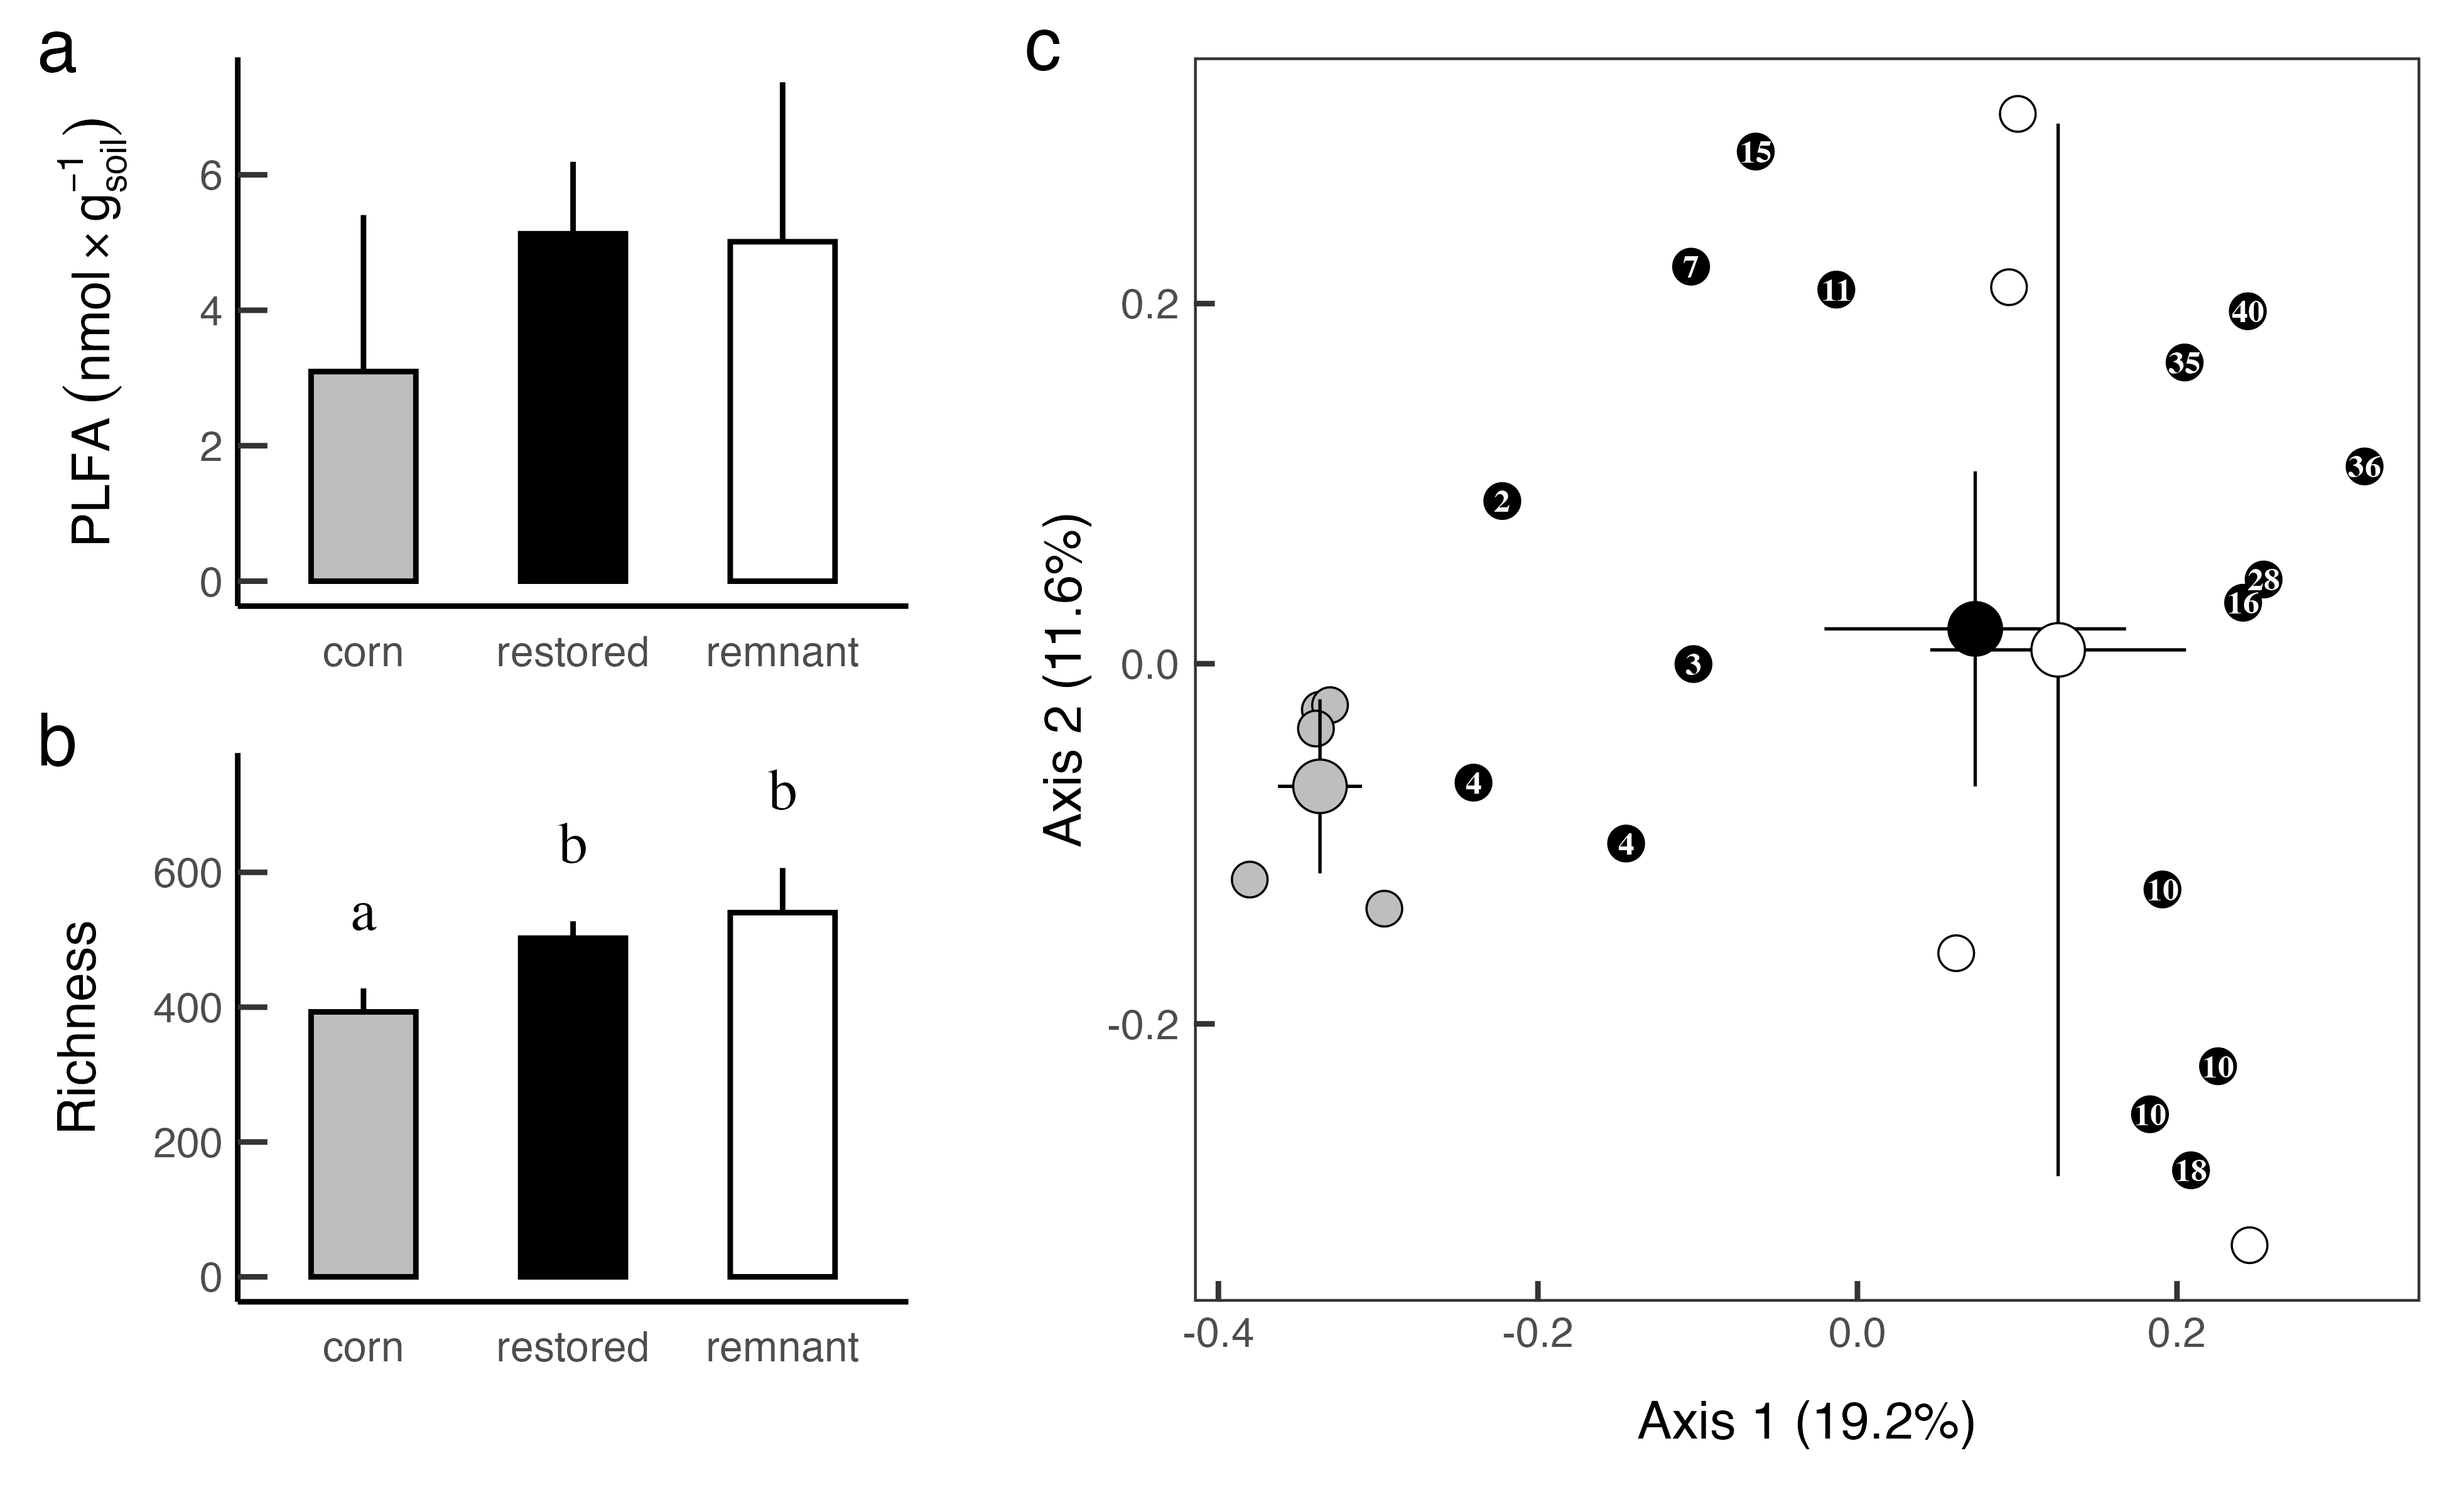
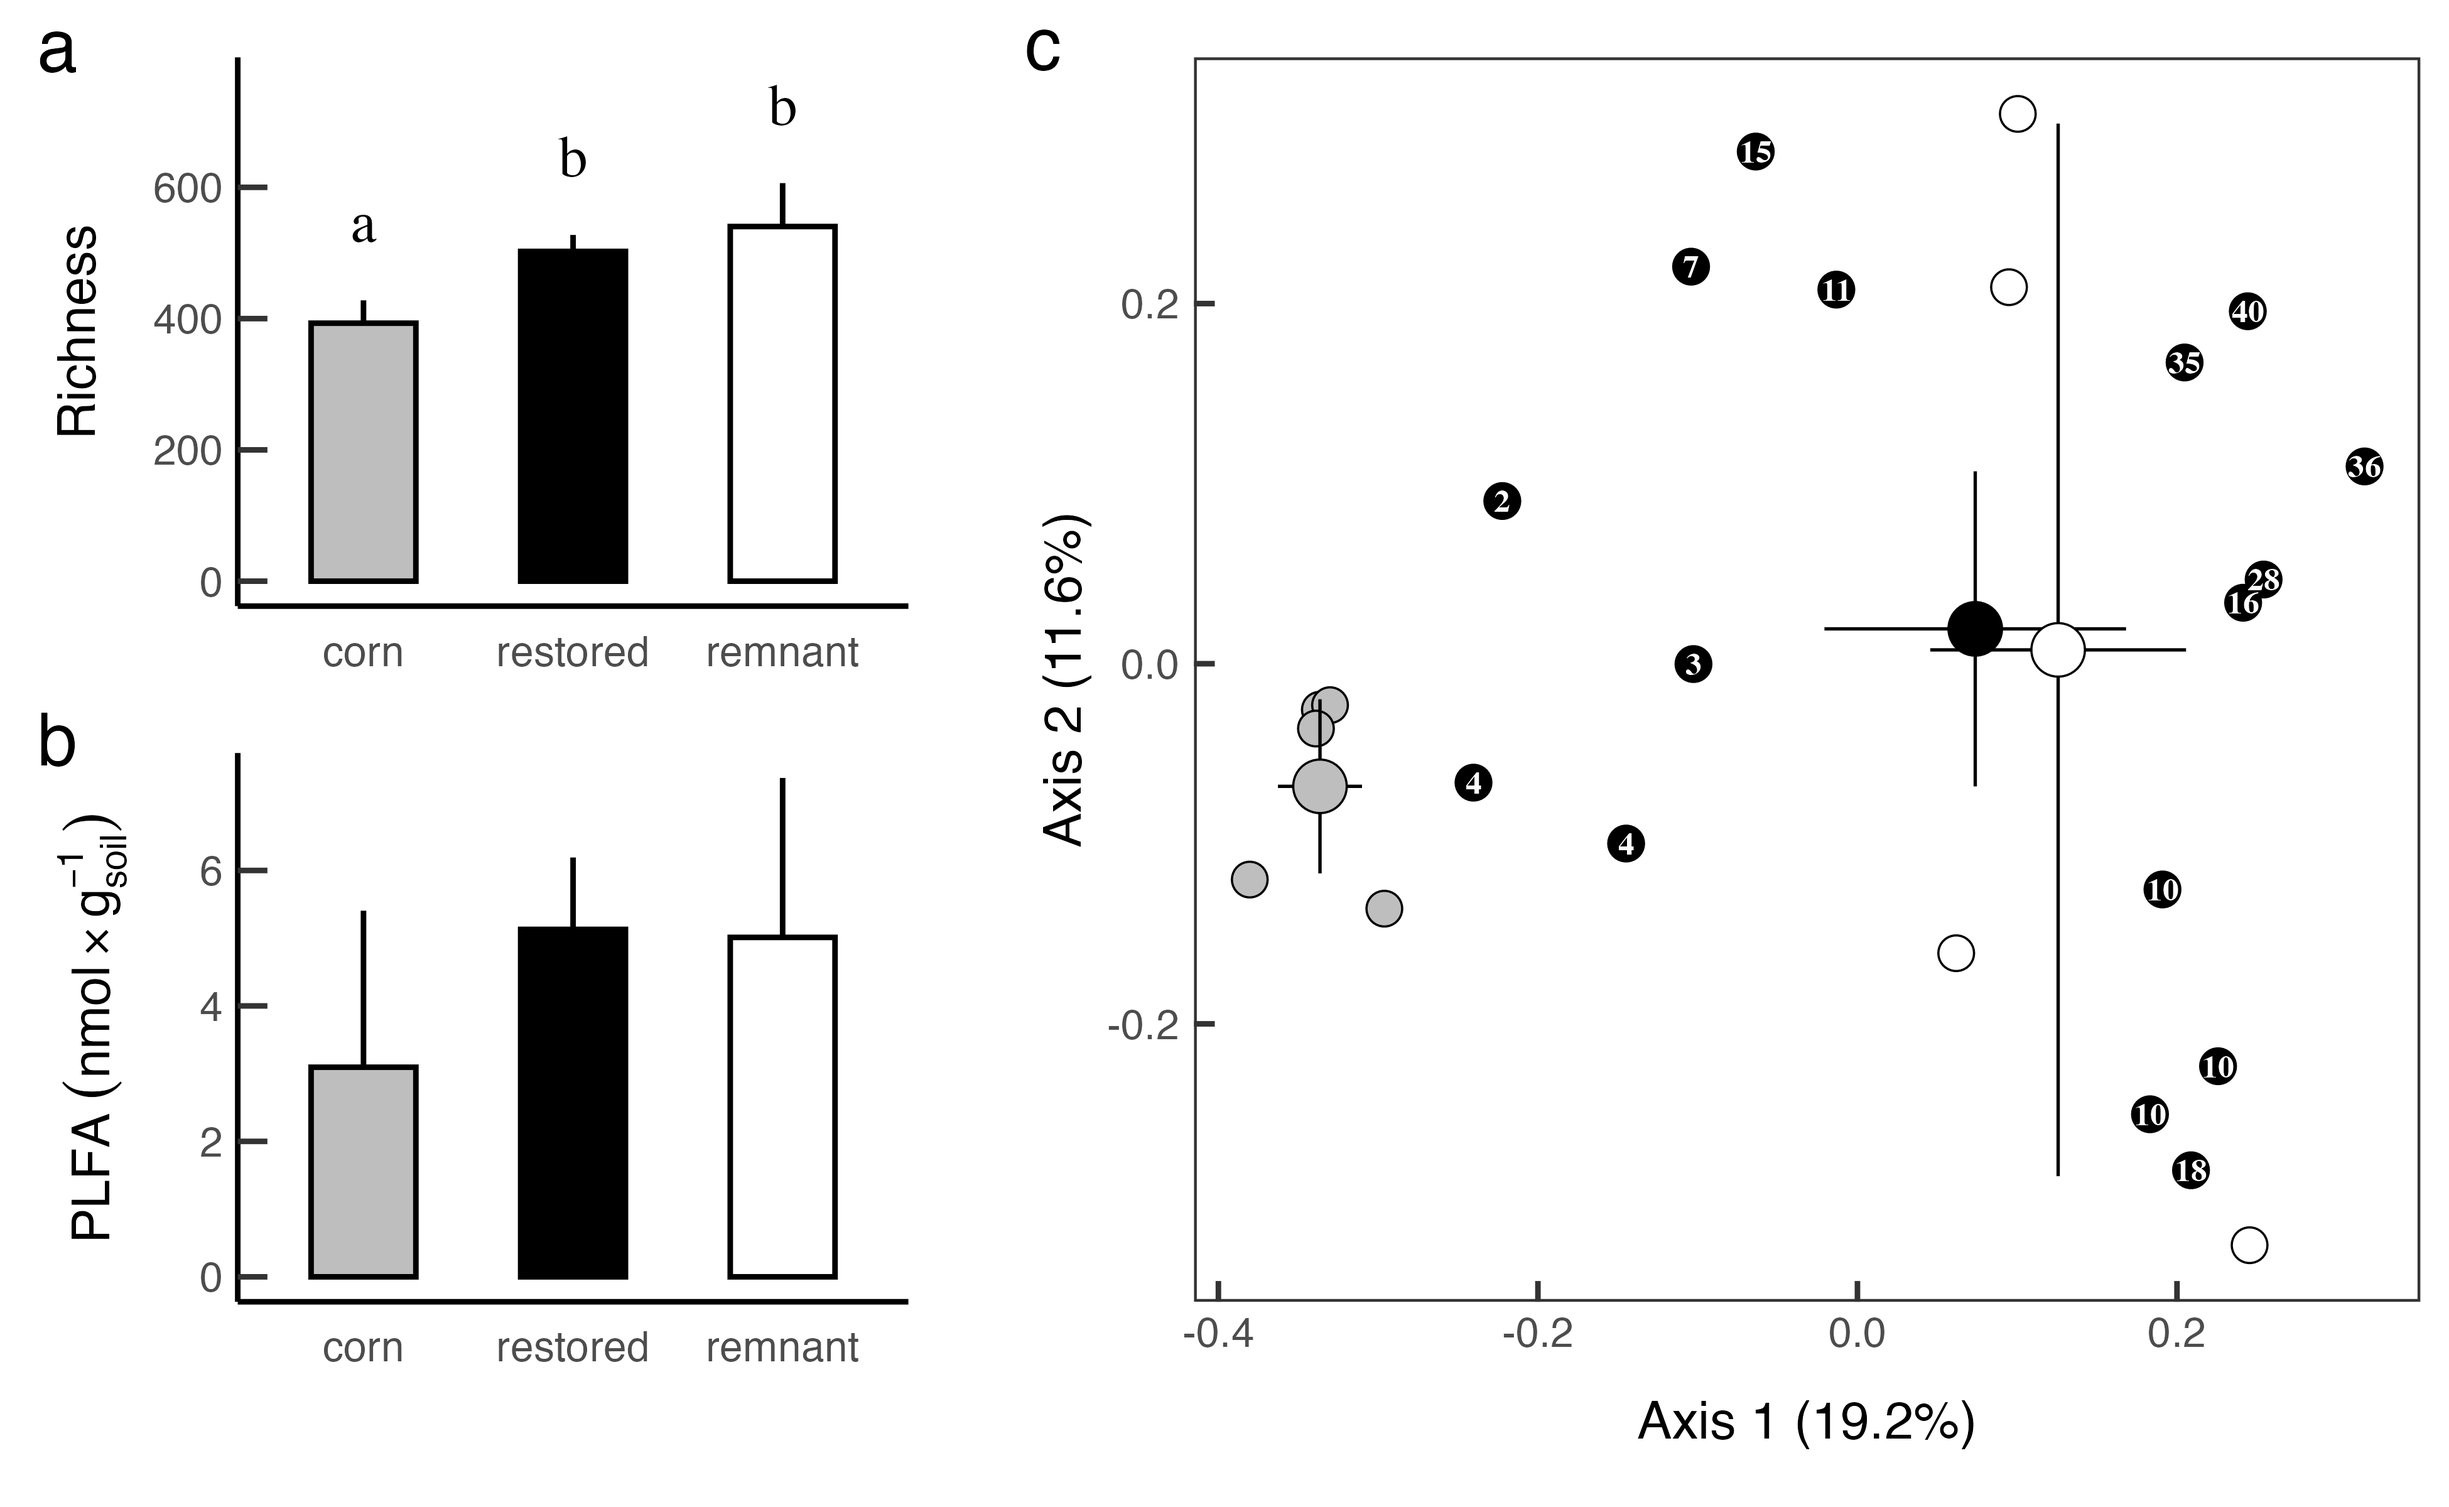
UPDATED scripts and data

diff --git a/soilfun.md b/soilfun.md
@@ -315,7 +315,7 @@ mva <- function(d, env=sites, corr="none", nperm=1999) {
             contrast_matrix ~ env$dist_axis_1[group_subset] + group_var[group_subset],
             permutations = nperm,
             by = "terms")
-        # Prepare constrasts table
+        # Prepare contrasts table
         contrasts$R2[i] <- round(fit[grep("group_var", rownames(fit)), "R2"], digits = 3)
         contrasts$F_value[i] <- round(fit[grep("group_var", rownames(fit)), "F"], digits = 3)
         contrasts$df1[i] <- fit[grep("group_var", rownames(fit)), "Df"]
@@ -332,7 +332,7 @@ mva <- function(d, env=sites, corr="none", nperm=1999) {
         ordination_scores  = p_sco,
         dispersion_test    = mvdisper,
         permanova          = gl_permtest,
-        pairwise_contrasts = kable(contrasts, format = "pandoc", caption = "Post-hoc PERMANOVA results"),
+        pairwise_contrasts = contrasts,
         vector_fit_result  = p_fit,
         vector_fit_scores  = p_fit_sco
     )
@@ -411,12 +411,14 @@ Tests are performed on the log scale
 ``` r
 plfa_fig <- 
     ggplot(data.frame(summary(plfa_em)), aes(x = field_type, y = response)) +
-    geom_col(color = "black", width = 0.5) +
+    geom_col(aes(fill = field_type), color = "black", width = 0.5) +
     geom_errorbar(aes(ymin = response, ymax = upper.CL), width = 0) +
-    # geom_text(aes(y = ci_u, label = c("a", "b", "b")), vjust = -2, family = "serif", size = 4) +
     labs(x = NULL, y = expression(PLFA~(nmol%*%g[soil]^-1))) +
-    # lims(y = c(0, 700)) +
-    theme_cor
+    scale_fill_manual(values = c("gray", "black", "white")) +
+    theme_cor +
+    theme(legend.position = "none",
+          plot.tag = element_text(size = 14, face = 1),
+          plot.tag.position = c(0, 1.02))
 ```
 
 ## Diversity Indices
@@ -552,12 +554,16 @@ its_rich <-
 ``` r
 its_rich_fig <- 
     ggplot(its_rich, aes(x = field_type, y = avg_rich)) +
-    geom_col(color = "black", width = 0.5) +
+    geom_col(aes(fill = field_type), color = "black", width = 0.5) +
     geom_errorbar(aes(ymin = avg_rich, ymax = ci_u), width = 0) +
-    geom_text(aes(y = ci_u, label = c("a", "b", "b")), vjust = -2, family = "serif", size = 4) +
+    geom_text(aes(y = ci_u, label = c("a", "b", "b")), vjust = -1.5, family = "serif", size = 4) +
     labs(x = NULL, y = "Richness") +
-    lims(y = c(0, 700)) +
-    theme_cor
+    lims(y = c(0, 760)) +
+    scale_fill_manual(values = c("gray", "black", "white")) +
+    theme_cor +
+    theme(legend.position = "none",
+          plot.tag = element_text(size = 14, face = 1),
+          plot.tag.position = c(0, 1.02))
 ```
 
 ### Shannon’s diversity
@@ -703,7 +709,7 @@ mva_its$dispersion_test
     ## 
     ## Response: Distances
     ##           Df   Sum Sq   Mean Sq      F N.Perm Pr(>F)  
-    ## Groups     2 0.018698 0.0093489 3.2104   1999 0.0605 .
+    ## Groups     2 0.018698 0.0093489 3.2104   1999  0.059 .
     ## Residuals 22 0.064065 0.0029121                       
     ## ---
     ## Signif. codes:  0 '***' 0.001 '**' 0.01 '*' 0.05 '.' 0.1 ' ' 1
@@ -711,8 +717,8 @@ mva_its$dispersion_test
     ## Pairwise comparisons:
     ## (Observed p-value below diagonal, permuted p-value above diagonal)
     ##              corn restored remnant
-    ## corn              0.065500  0.1245
-    ## restored 0.068726           0.1435
+    ## corn              0.061500  0.1095
+    ## restored 0.068726           0.1230
     ## remnant  0.126039 0.135570
 
 ``` r
@@ -726,7 +732,7 @@ mva_its$permanova
     ## 
     ## adonis2(formula = d ~ dist_axis_1 + field_type, data = env, permutations = nperm, by = "terms")
     ##             Df SumOfSqs      R2      F Pr(>F)    
-    ## dist_axis_1  1   0.4225 0.06253 1.7391 0.0250 *  
+    ## dist_axis_1  1   0.4225 0.06253 1.7391 0.0245 *  
     ## field_type   2   1.2321 0.18236 2.5358 0.0005 ***
     ## Residual    21   5.1017 0.75510                  
     ## Total       24   6.7563 1.00000                  
@@ -734,16 +740,17 @@ mva_its$permanova
     ## Signif. codes:  0 '***' 0.001 '**' 0.01 '*' 0.05 '.' 0.1 ' ' 1
 
 ``` r
-mva_its$pairwise_contrasts
+mva_its$pairwise_contrasts[c(1,3,2), c(1,2,4,3,8)] %>% 
+    kable(format = "pandoc", caption = "Pairwise permanova contrasts")
 ```
 
-| group1   | group2  |    R2 | F_value | df1 | df2 | p_value | p_value_adj |
-|:---------|:--------|------:|--------:|----:|----:|--------:|------------:|
-| restored | corn    | 0.164 |   3.913 |   1 |  18 |  0.0005 |      0.0015 |
-| restored | remnant | 0.054 |   1.062 |   1 |  17 |  0.3225 |      0.3225 |
-| corn     | remnant | 0.281 |   2.858 |   1 |   6 |  0.0035 |      0.0053 |
+|     | group1   | group2  | F_value |    R2 | p_value_adj |
+|-----|:---------|:--------|--------:|------:|------------:|
+| 1   | restored | corn    |   3.913 | 0.164 |      0.0015 |
+| 3   | corn     | remnant |   2.858 | 0.281 |      0.0030 |
+| 2   | restored | remnant |   1.062 | 0.054 |      0.3225 |
 
-Post-hoc PERMANOVA results
+Pairwise permanova contrasts
 
 No eignevalue correction was needed. Two relative eigenvalues exceeded
 broken stick model. Based on the homogeneity of variance test, the null
@@ -779,28 +786,39 @@ its_ord <-
         x = paste0("Axis 1 (", mva_its$axis_pct[1], "%)"),
         y = paste0("Axis 2 (", mva_its$axis_pct[2], "%)")) +
     theme_ord +
-    guides(fill = guide_legend(position = "inside")) +
-    theme(legend.justification = c(0.03, 0.98))
+    theme(legend.position = "none",
+          plot.tag = element_text(size = 14, face = 1),
+          plot.tag.position = c(0, 1.01))
+    # guides(fill = guide_legend(position = "inside")) +
+    # theme(legend.justification = c(0.03, 0.98))
 
 
 ## Unified figure
 ```
 
 ``` r
-fig2 <- ((plfa_fig / its_rich_fig) | its_ord) +
-    plot_layout(widths = c(0.35, 0.65)) +
-    plot_annotation(tag_levels = 'A') 
+ls <- (its_rich_fig / plot_spacer() / plfa_fig) +
+    plot_layout(heights = c(1,0.01,1)) 
+fig2 <- (ls | plot_spacer() | its_ord) +
+    plot_layout(widths = c(0.35, 0.01, 0.64)) +
+    plot_annotation(tag_levels = 'a') 
 ```
 
-NEED TO FIX THE LABEL SIZES IN STYLES NEED TO UPDATE THE FIGURE CAPTION
-Fig 2 - Ordination of sites from principal coordinate analysis of soil
-fungal composition as inferred by clustering ITS sequences into 97%
-similar OTUs. Small circles depict locations of individual sites and
-large circles show centroids of clusters based on field type. Shading
+NEED TO UPDATE THE FIGURE CAPTION **Fig 2** Whole soil fungal
+communities from cornfields, restored, or remnant prairies, with column
+charts showing **a** OTU richness and **b** fungal biomass (PLFA). Error
+bars show 95% confidence intervals and lowercase letters show
+significant pairwise contrasts (P \< 0.001). An ordination of community
+data **c** shows a principal coordinate analysis of soil fungal
+composition as inferred by clustering ITS sequences into 97% similar
+OTUs. Small circles depict individual sites and large circles show
+centroids of clusters based on field type. Horizontal and vertical error
+bars around centroids encompass 95% confidence intervals around the mean
+location of sites in the cluster. In pairwise contrasts, cornfields
+clustered separately from restored or remnant prairies (P \< 0.01). Text
+within the black circles indicates the number of years between
+restoration and collection of field samples. Percentages included in the
+axis titles indicate the percent of community variation explained on
+each axis out of the entire ordination. Across all plots, shading
 represents field type, with corn shaded gray, restored shaded black, and
-remnant shaded white. Horizontal and vertical error bars around
-centroids encompass 95% confidence intervals around the mean location of
-sites in the cluster. Text within the black circles indicates the number
-of years between restoration and collection of field samples.
-Percentages included in the axis titles indicate the percent of
-community variation explained on each axis out of the entire ordination.
+remnant shaded white.
